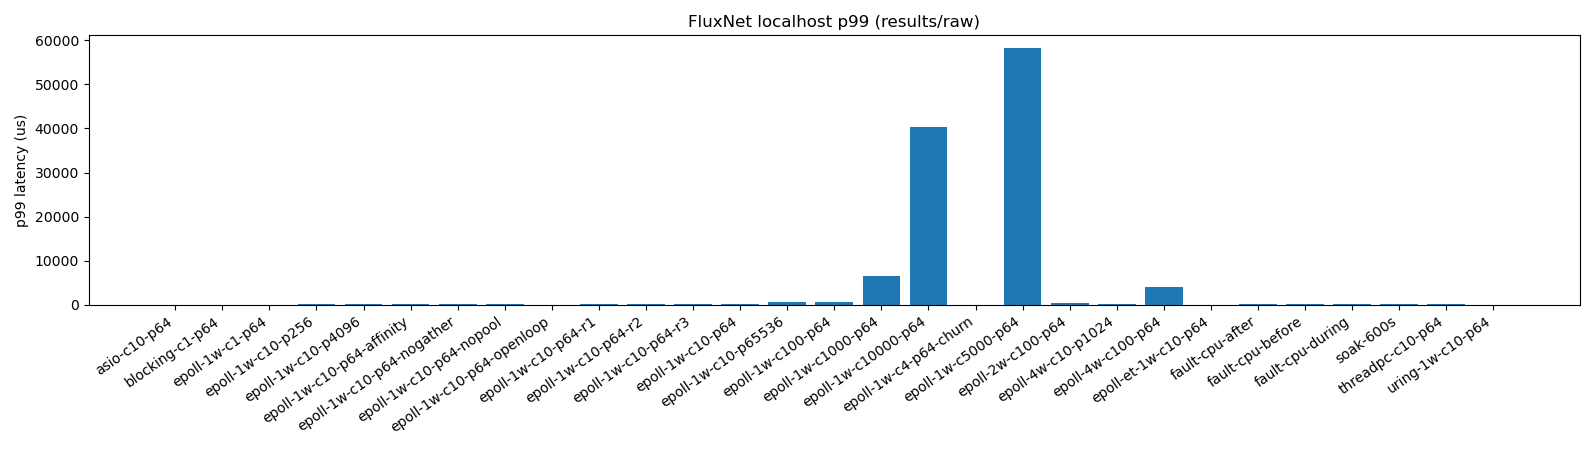
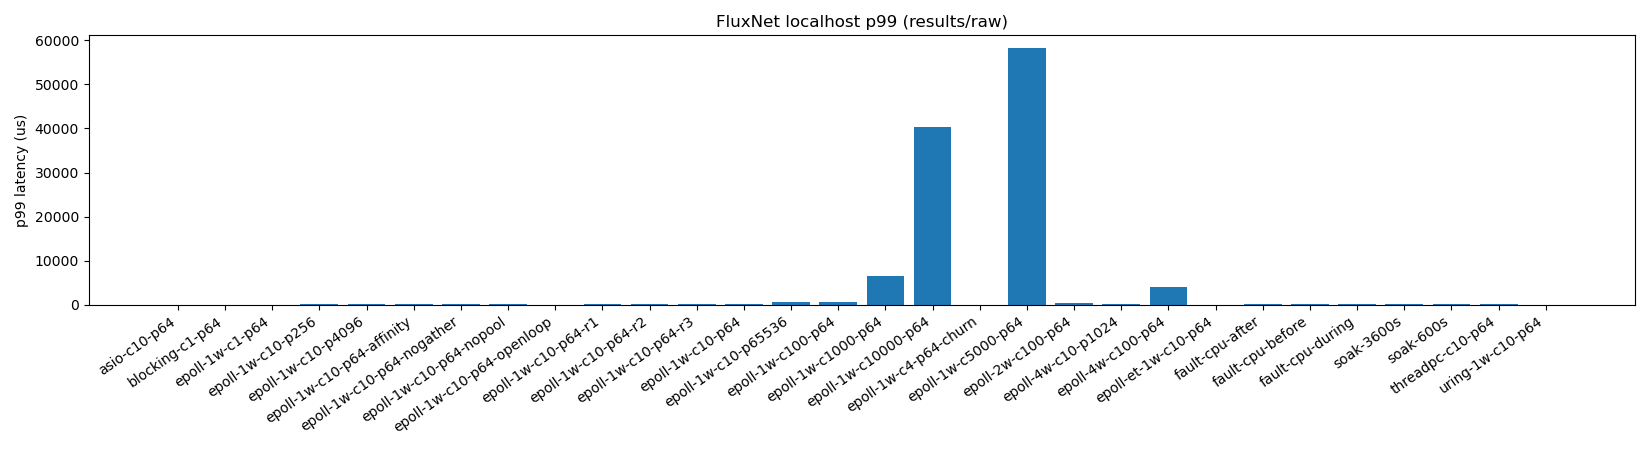
fix: probe io_uring before worker threads start
ThreadSanitizer warned in liburing.h only while the feature probe ran
after a worker ring already existed. The probe now runs first. Epoll
tests and the io_uring integration tests pass with no suppression file.
Document that the 10000-connection run completed real echoes and that
the one-hour soak has no RSS trace.

diff --git a/src/core/server.cpp b/src/core/server.cpp
@@ -735,6 +735,15 @@ void Server::run() {
         callbacks.on_error = impl_->on_error;
         callbacks.on_backpressure = impl_->on_backpressure;
 
+        // Probe and open the acceptor ring before any worker thread creates its
+        // own ring. Doing this later races the probe's short-lived mapping with
+        // a live worker ring; ThreadSanitizer then reports liburing.h writes on
+        // a reused anon_inode:[io_uring] address.
+        if (resolved == IoBackend::IoUring) {
+            impl_->prepare_uring_accept();
+        } else {
+            impl_->accept_mode = "epoll";
+        }
         const int n = impl_->config.worker_threads;
         impl_->workers.reserve(static_cast<std::size_t>(n));
         for (int i = 0; i < n; ++i) {
@@ -752,11 +761,6 @@ void Server::run() {
             if (worker->failed()) {
                 throw std::runtime_error("worker failed during startup");
             }
-        }
-        if (resolved == IoBackend::IoUring) {
-            impl_->prepare_uring_accept();
-        } else {
-            impl_->accept_mode = "epoll";
         }
         if (impl_->config.cpu_affinity) {
             // Acceptor uses the last CPU in the cpuset when affinity is enabled.

diff --git a/BENCHMARKS.md b/BENCHMARKS.md
@@ -122,7 +122,19 @@ This does not mean the server is faster with the SPSC. The server was not in thi
 | msgs/s | 392178 |
 | p50 / p99 / p99.9 / max ns | 65024 / 143360 / 315392 / 34203668 |
 
-A 24-hour soak was not started. The command, if someone runs it, is `DURATION=86400 PORT=19521 bash scripts/soak.sh`.
+A 24-hour soak was not started. On a host that can leave the process up:
+
+```bash
+DURATION=86400 PORT=19521 bash scripts/soak.sh
+```
+
+Hardware counters were not collected. `results/raw/perf.txt` records `perf_event_paranoid=2` and that `linux-tools-6.12.113` is not packaged here. On a host where `perf` is installed and `perf_event_paranoid` is 1 or lower:
+
+```bash
+bash scripts/profile.sh -- ./build-release/examples/fluxnet_echo --port 19701 --workers 1 --epoll
+```
+
+The script writes `results/raw/perf.txt` and does not invent counters. Affinity stays off unless the echo binary is given `--affinity`.
 
 ## Later short matrix
 
@@ -141,6 +153,10 @@ A 24-hour soak was not started. The command, if someone runs it, is `DURATION=86
 | `epoll-1w-c4-p64-churn.json` | 191842 | 40960 | 4 conn, `--churn-seconds 0.5`, connect_failures 0 |
 | `epoll-1w-c5000-p64.json` | 240632 | 58195968 | 1 worker, 5000 conn, 4 client threads, p50 12189696 ns |
 | `epoll-1w-c10000-p64.json` | 439820 | 40370176 | 1 worker, 10000 conn, `--max-connections 20000`, 4 client threads, p50 24903680 ns, failures 0, connect_failures 0 |
+
+That 10000-connection file is not an idle hold. `completed` is 879640 and `bytes` is 56296960, which is `879640 * 64`. The generator counts a completion only after the echoed payload matches the bytes it sent. `connect_failures` is 0 and `offered` is 1127232. `timed_out` is 9917 because each connection keeps one request outstanding and those in-flight sends are counted at the end of the window; `failures` stays 0. About 88 verified round trips completed per connection during the 2 second window.
+
+The one-hour soak file records generator RSS only at process exit (`generator_rss_kb` 4256). No server RSS samples were taken during the hour, so it is not a memory-stability trace. `bytes` is 90357872384, which is `1411841756 * 64`. The script log exited 0. `timed_out` is 22 of the 32 connections still waiting for one response when the window closed.
 
 Repeat msgs/s min 201612, median 203446, max 203478. That spread is about 1 percent. It is not a confidence interval for the other rows.
 

diff --git a/LIMITATIONS.md b/LIMITATIONS.md
@@ -20,7 +20,7 @@ Facts below were read on this machine during this session. They are not a generi
 - `stress-ng` is installed and was used by `experiments/faults/cpu_stress.sh`. That is not CrashLab.
 - CrashLab: the repository `github.com/dkolancs/CrashLab` exists. It was not cloned onto this machine. `crashlab/experiments/echo-latency.yaml` matches its file schema and was not run. See `crashlab/INTEGRATION.md`.
 - libFuzzer: `scripts/fuzz_decode.sh` compiled with `libclang-rt-18-dev` and ran 200 inputs (`Done 200 runs`, exit 0). Clang needs the g++ include and library paths on this guest.
-- ThreadSanitizer reports data races inside `liburing.h` when a destroyed probe ring and a later worker ring reuse the same `anon_inode:[io_uring]` address. `tests/tsan.supp` suppresses those three liburing functions. It does not suppress FluxNet stacks. With that file, TSan ctest passed.
+- ThreadSanitizer: the epoll-only integration tests (`--gtest_filter=-Echo.IoUring*`, 17 tests) passed with `TSAN_OPTIONS=halt_on_error=1` and no suppressions. A warning that did fire was confined to `Echo.IoUringTinyRingStillEchoes`: stacks were `probe_uring_features` on the run thread and `UringDriver::submit_poll` on the worker, at `anon_inode:[io_uring]`, not a FluxNet object. The probe used to run after worker threads had already opened their rings. It now runs first. After that move, the same io_uring filter and the full integration binary passed under TSan with no suppressions and no warning. A separate two-thread program that only creates private rings (`/tmp/iouring_tsan_repro2.c`, not part of the build) did not warn. No `tests/tsan.supp` remains.
 - Git identity for new commits: `Divith Reddy Kolan <dkolan@asu.edu>`, repo-local config only. Nothing was pushed. The initial commit still contains a historical `Co-authored-by` trailer. It was not rewritten. A local commit-msg hook tries to append `Co-authored-by: dkolancs <dkolancs@users.noreply.github.com>`; commits in this pass were created with that hook disabled so the trailer is not on the new commits.
 
 ## Toolchain (after installing missing packages)

diff --git a/AUDIT.md b/AUDIT.md
@@ -93,5 +93,5 @@ The slot is closed to new admits before the callback so a send cannot observe a 
 - ASan, UBSan, and TSan were rerun after acceptor io_uring (`ctest -LE stress`, 9/9 each). `fluxnet_stress` was then run under the ASan and TSan binaries and passed. The 600 second soak was not a sanitizer run.
 - Valgrind on `fluxnet_unit_codec` reported 0 errors. libFuzzer did not link. `perf` was not installed. Docker's daemon did not start. `tc` was EPERM. CrashLab's schema was read and the YAML was not executed. The `stress-ng` numbers are a local CPU run, not a CrashLab report.
 - This is still not release-ready. Docker did not start, `perf` is not installed, and the 24-hour soak was not started.
-- ThreadSanitizer needed `tests/tsan.supp` for liburing ring-address reuse. See LIMITATIONS.md. The suppression does not cover FluxNet source.
+- ThreadSanitizer: after the feature probe was moved before worker threads start, the integration binary passed with `TSAN_OPTIONS=halt_on_error=1` and no suppression file (`22` tests). Before that move, `Echo.IoUringTinyRingStillEchoes` reported data races in `liburing.h` on `anon_inode:[io_uring]` between `probe_uring_features` and `UringDriver::submit_poll`. Epoll-only integration (`--gtest_filter=-Echo.IoUring*`, 17 tests) passed with no suppressions on the earlier binary. A private-ring repro that does not share SQEs did not warn. `tests/tsan.supp` was removed rather than left in place.
 - libFuzzer ran 200 decoder inputs via `scripts/fuzz_decode.sh` with no crash. Valgrind `--leak-check=full` passed the six unit binaries.

diff --git a/PROGRESS.md b/PROGRESS.md
@@ -40,7 +40,7 @@ This completion branch is `cursor/fluxnet-completion`, cut from `origin/main` at
 
 ## Commands that passed
 
-Debug (`/workspace/build`, g++ 13.3.0) after the completion pass: integration, load-generator, and adapter tests passed. ASan and TSan `ctest -LE stress` passed (10 tests, including the adapter). UBSan `ctest -LE stress` passed and `./build-ubsan/tests/fluxnet_stress` passed. TSan uses `tests/tsan.supp` for liburing ring reuse only.
+Debug (`/workspace/build`, g++ 13.3.0) after the completion pass: integration, load-generator, and adapter tests passed. ASan and TSan `ctest -LE stress` passed (10 tests, including the adapter). UBSan `ctest -LE stress` passed and `./build-ubsan/tests/fluxnet_stress` passed. The feature probe was later moved before worker startup. After that, `Echo.IoUring*` and the full integration binary passed under TSan with no suppression file.
 
 ```bash
 ctest --test-dir build --output-on-failure

diff --git a/PLAN.md b/PLAN.md
@@ -78,7 +78,7 @@ README and `docs/` must match the code and the numbers that were measured.
 
 ## Phase 18 — adversarial review
 
-AUDIT.md with severity, evidence, and what was retested. Not release-ready if a critical correctness bug is still open. `tests/tsan.supp` covers only liburing ring-address reuse. Docker, perf, and the 24-hour soak stay disclosed if they did not run.
+AUDIT.md with severity, evidence, and what was retested. Not release-ready if a critical correctness bug is still open. Docker, perf, and the 24-hour soak stay disclosed if they did not run. The io_uring feature probe runs before worker threads so ThreadSanitizer does not need a liburing suppression.
 
 ## Parallelism
 
